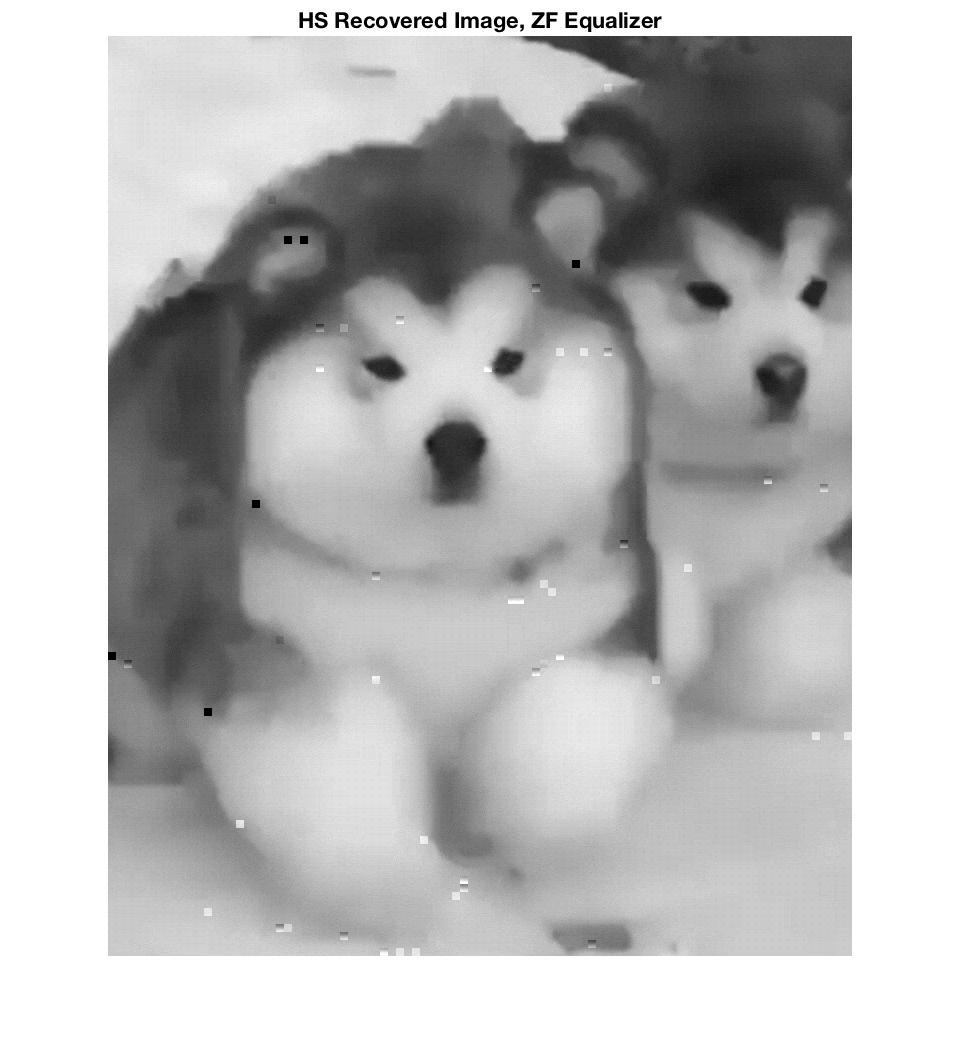
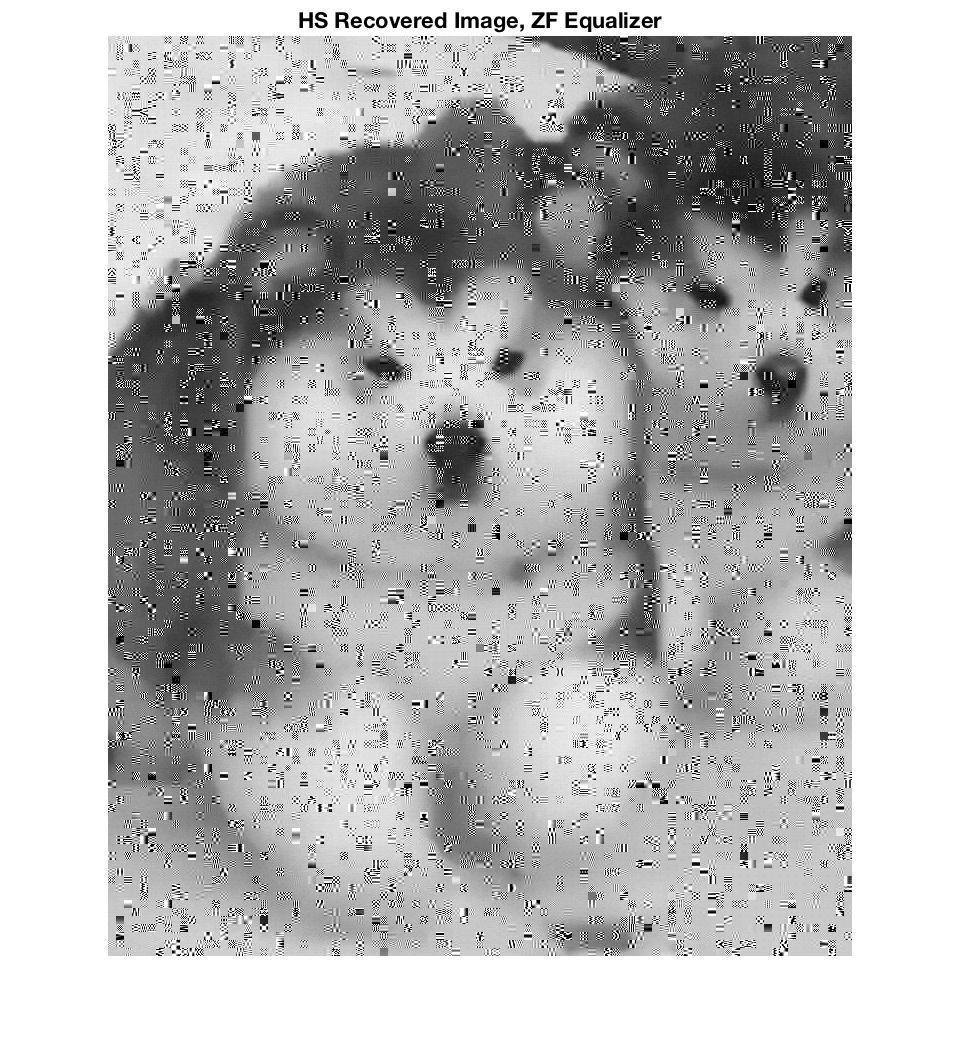
Fixing MMSE

Changed region(s): [[0.0938, 0.0305, 0.9062, 0.9143], [0.875, 0.4267, 0.9062, 0.4571]]

diff --git a/MMSE_equalizer.m b/MMSE_equalizer.m
@@ -3,7 +3,7 @@ function out = MMSE_equalizer(ch_coeff, fs,noise_power,signal)
     channel = getChannel(ch_coeff,fs);
       
     if nargin == 3 % plot frequency response 
-       [H,f] = freqz(channel,1,1024,fs);
+       [H,f] = freqz(ch_coeff,1,1024,fs);
         Q = conj(H)./ (abs(H).^2 + 2*noise_power);
         figure
         subplot(2,1,1)
@@ -15,7 +15,7 @@ function out = MMSE_equalizer(ch_coeff, fs,noise_power,signal)
         plot(f,angle(Q))
         title('MMSE phase')
         figure
-        plot(ifft(Q))
+        plot(real(ifft(Q)))
         ttl=strcat('MMSE impulse response   ',tttl);
         title(ttl)
         

diff --git a/commSystem.m b/commSystem.m
@@ -5,7 +5,7 @@ K = 5;  %truncation constant
 fs = 32;    %samples per bit duration
 T = 1;      %bit duration 
 ch_coeff = [1 1/2 3/4 -2/7]; %channel taps
-noisePower = 0;   % AWGN noise power is sigma^2
+noisePower = 0.1;   % AWGN noise power is sigma^2
 %% Image pre-processing
 filename = 'photo.jpeg';
 qbits = 8;
